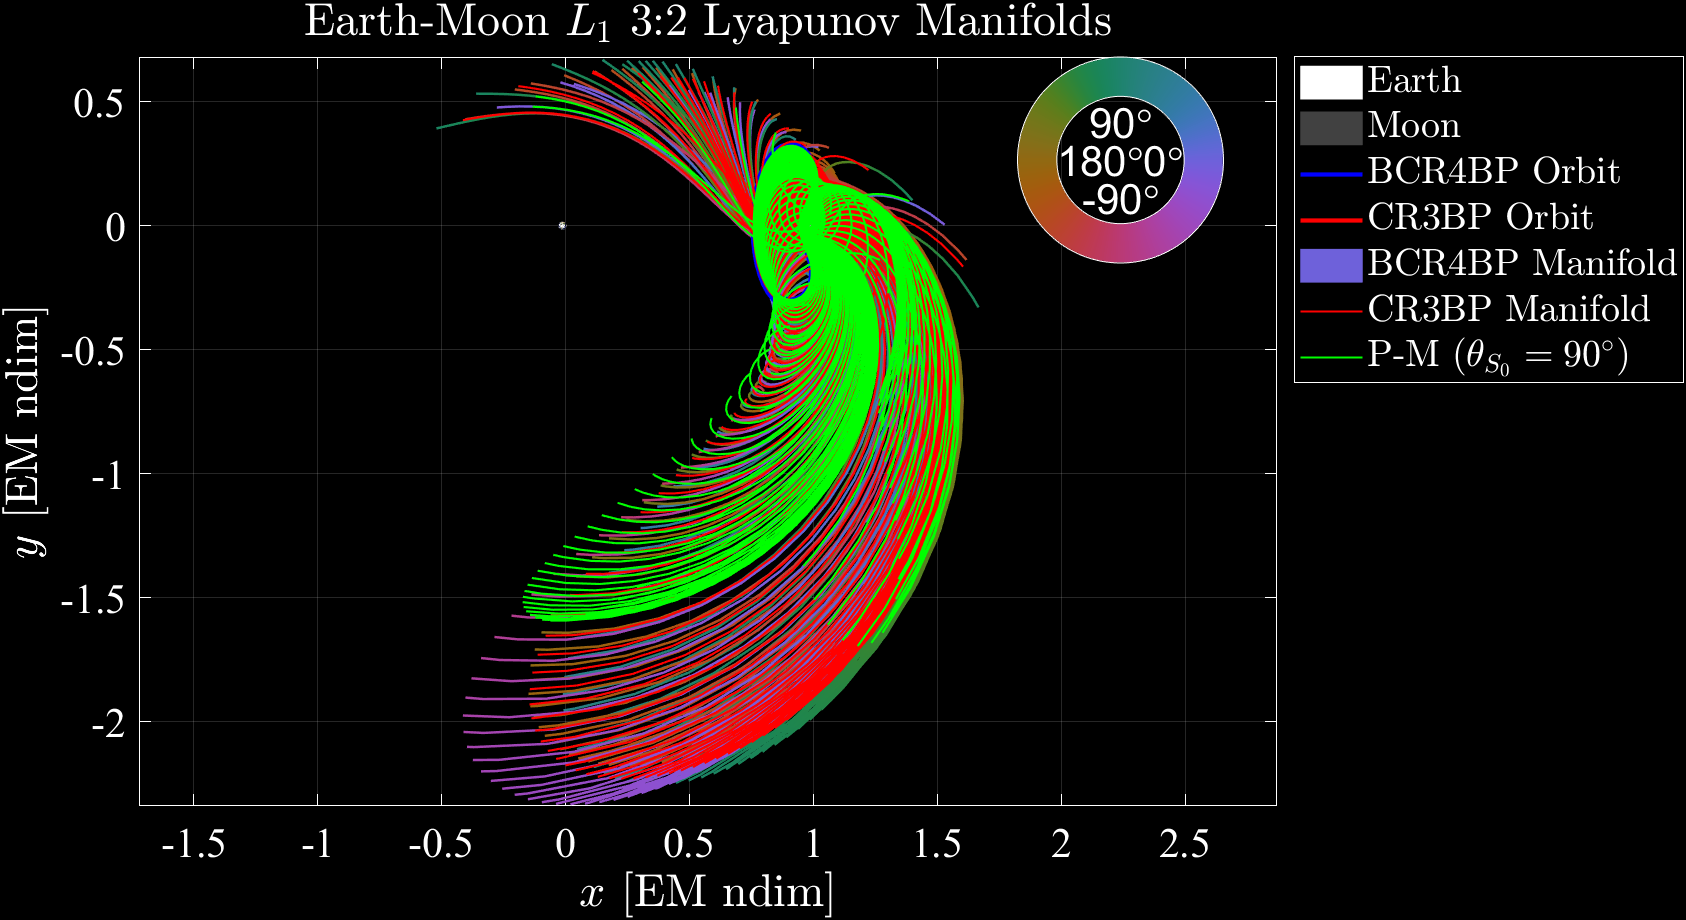
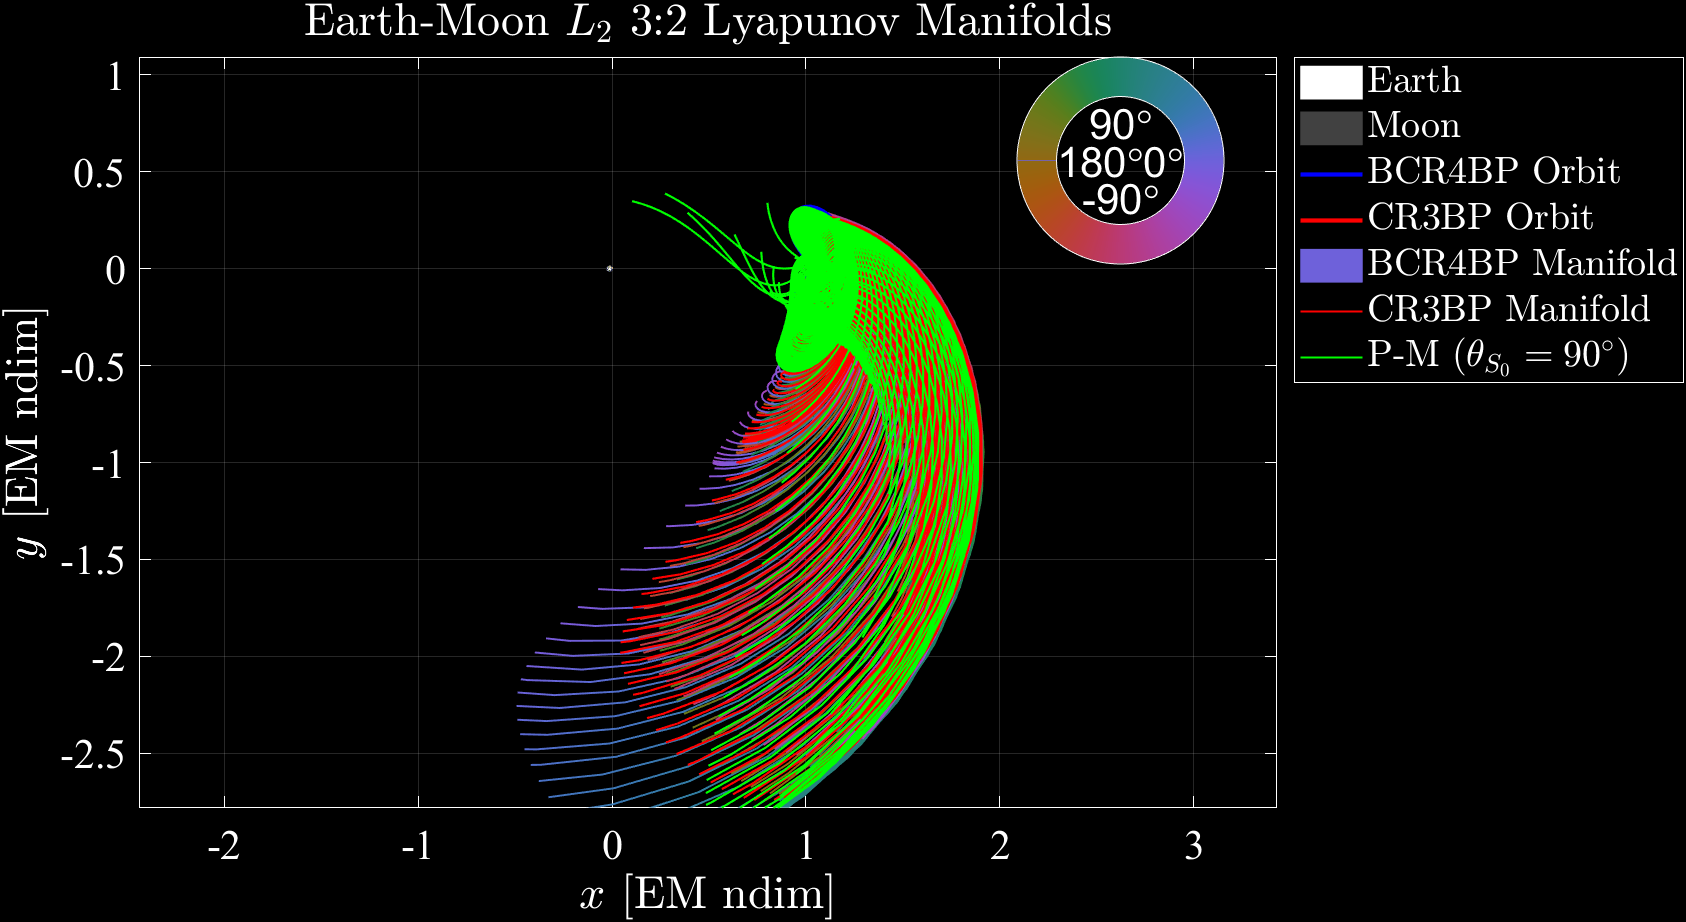
Making presentation

diff --git a/ManifoldComparison.m b/ManifoldComparison.m
@@ -53,7 +53,7 @@ grid on
 xlabel("$x$ [EM ndim]", 'Interpreter', 'latex')
 ylabel("$y$ [EM ndim]", 'Interpreter', 'latex')
 zlabel("$z$ [EM ndim]", 'Interpreter', 'latex')
-title("Earth-Moon $L_{2}$ 1:1 Lyapunov Manifolds", 'Interpreter', 'latex')
+title("Earth-Moon $L_{2}$ 3:2 Lyapunov Manifolds", 'Interpreter', 'latex')
 leg1 = legend('Location', 'bestoutside', 'Interpreter', 'latex');
 phasemap
 phasebar('deg', 'Location', 'northeast', 'Size', 0.275);
